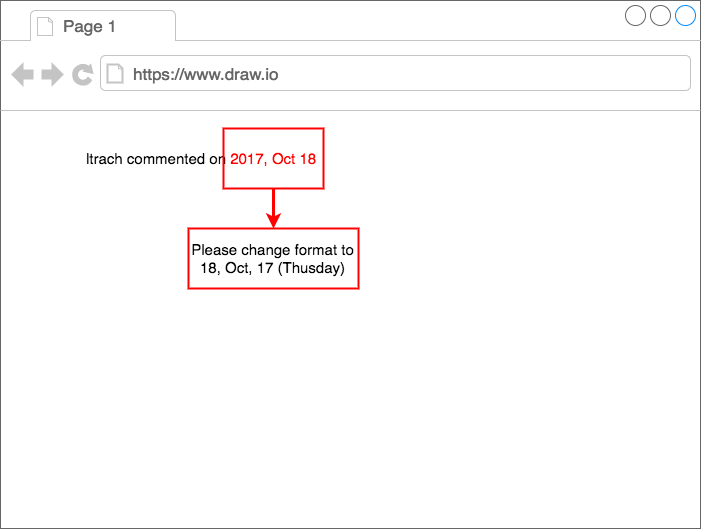
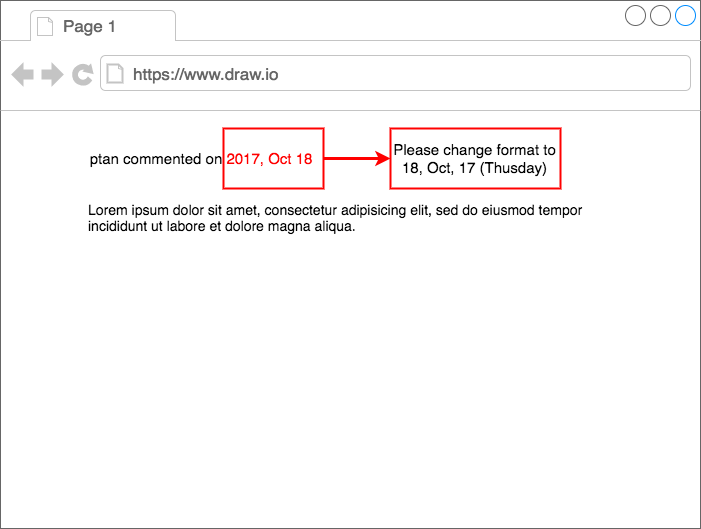
ibst (wip)

Changed region(s): [[0.1198, 0.3629, 0.8388, 0.5747], [0.1198, 0.242, 0.8088, 0.3629]]

diff --git a/_drafts/ibst-how-to-analyze-investigate-and-writing-test-case.md b/_drafts/ibst-how-to-analyze-investigate-and-writing-test-case.md
@@ -2,7 +2,7 @@
 layout: single
 title: 'Phân tích yêu cầu, điều tra và viết test-case'
 categories:
-    - improve-by-doing-simple-things
+  - improve-by-doing-simple-things
 ---
 
 # Phân tích yêu cầu
@@ -43,45 +43,3 @@ categories:
 
 - Đảm bảo tất cả các yêu cầu của khách hàng đã được thực hiện.
 - Đảm bảo những chức năng nằm ngoài phạm vi của yêu cầu không bị ảnh hưởng.
-
-# Case study
-
-## Yêu cầu
-
-Ta nhận được yêu cầu thay đổi mục comment như sau từ phía khách hàng
-
-![Mẫu yêu cầu](/assets/ibst-requirement-sample.png)
-
-## Phân tích
-
-Đây là một yêu cầu nhìn chung là đơn giản, tuy nhiên khi phân tích vào chi tiết ta sẽ thấy có nhiều điểm cần lưu ý. Ví dụ:
-
-- Date format thường được sử dung đồng nhất toàn dự án, nếu ta đổi date format ở màn hình này thì liệu ở những màn hình khác ta có cần làm điều tương tự hay không?
-- Format hiển thị ngày tháng đang có những pattern nào? Ví dụ:
-  - Ngày comment cùng năm với năm hiện tại
-  - Ngày comment nằm ở năm của quá khứ?
-  - 18, Oct, 17 có vẻ hơi rối, liệu ta có nên ghi rõ năm ra là 2017, giữa ngày và tháng không có dấu phẩy được hay không?
-  - Nếu ngày comment giá trị là rỗng hoặc null thì ta sẽ hiển thị gì?
-
-## Điều tra (tiến hành song song với bước phân tích)
-
-Sau khi tiến hành điều tra source code và trao đổi với khách hàng, ta đã có được câu trả lời như sau:
-
-- Việc thay đổi date format là một phần trong kế hoạch làm đồng nhất lại toàn bộ date format, nếu phát hiện ra chỗ nào chưa tuân theo format này thì ta sẽ sửa, nhưng cần xác nhận lại khách hàng trước khi làm.
-
-- Format hiển thị ngày có những pattern sau:
-  - Ngày comment cùng với năm hiện tại: sẽ không hiển thị năm
-  - Ngày comment nằm ở năm với quá khứ thì sẽ hiển thị năm, tuy nhiên nếu trước năm hiện tại 3 năm thì sẽ không hiển thị ngày, tháng, năm mà chỉ hiện: more than 3 years ago, more than 4 years ago,...
-  - Năm sẽ được hiển thị full chữ, bỏ dấu phẩy giữa ngày tháng
-  - Nếu ngày comment giá trị là rỗng hoặc null thì ta sẽ chỉ hiển thị "ltrach commented", bỏ chữ on.
-
-## Viết test-case
-
-Sau khi tiến hành phân tích thì yêu cầu ngắn ban đầu đã trở nên phức tạp hơn. Và nhờ việc phân tích chi tiết spec mà bây giờ ta đã có thể tiến hành viết test-case cover cho tất cả trường hợp:
-
-| Ngày comment | Hiển thị |
-|------| ------|
-| 18/10/2017 | ltrach commented on 18 Oct, 2017 (Thusday) |
-| 18/10/2018 | ltrach commented on 18 Oct (Thusday) |
-| 18/10/2015 | ltrach commented more than 3 years ago |
-| null | ltrach commented |

diff --git a/_drafts/ibst-how-to-analyze-investigate-and-writing-test-case-case-study.md b/_drafts/ibst-how-to-analyze-investigate-and-writing-test-case-case-study.md
@@ -1,0 +1,48 @@
+---
+layout: single
+title: 'Phân tích yêu cầu, điều tra và viết test-case: case study'
+categories:
+  - improve-by-doing-simple-things
+---
+
+# Case study
+
+## Yêu cầu
+
+Ta nhận được yêu cầu thay đổi mục comment như sau từ phía khách hàng
+
+![Mẫu yêu cầu](/assets/ibst-requirement-sample.png)
+
+## Phân tích
+
+Đây là một yêu cầu nhìn chung là đơn giản, tuy nhiên khi phân tích vào chi tiết ta sẽ thấy có nhiều điểm cần lưu ý. Ví dụ:
+
+- Date format thường được sử dung đồng nhất toàn dự án, nếu ta đổi date format ở màn hình này thì liệu ở những màn hình khác ta có cần làm điều tương tự hay không?
+- Format hiển thị ngày tháng đang có những pattern nào? Ví dụ:
+  - Ngày comment cùng năm với năm hiện tại
+  - Ngày comment nằm ở năm của quá khứ?
+  - 18, Oct, 17 có vẻ hơi rối, liệu ta có nên ghi rõ năm ra là 2017, giữa ngày và tháng không có dấu phẩy được hay không?
+  - Nếu ngày comment giá trị là rỗng hoặc null thì ta sẽ hiển thị gì?
+
+## Điều tra (tiến hành song song với bước phân tích)
+
+Sau khi tiến hành điều tra source code và trao đổi với khách hàng, ta đã có được câu trả lời như sau:
+
+- Việc thay đổi date format là một phần trong kế hoạch làm đồng nhất lại toàn bộ date format, nếu phát hiện ra chỗ nào chưa tuân theo format này thì ta sẽ sửa, nhưng cần xác nhận lại khách hàng trước khi làm.
+
+- Format hiển thị ngày có những pattern sau:
+  - Ngày comment cùng với năm hiện tại: sẽ không hiển thị năm
+  - Ngày comment nằm ở năm với quá khứ thì sẽ hiển thị năm, tuy nhiên nếu trước năm hiện tại 3 năm thì sẽ không hiển thị ngày, tháng, năm mà chỉ hiện: more than 3 years ago, more than 4 years ago,...
+  - Năm sẽ được hiển thị full chữ, bỏ dấu phẩy giữa ngày tháng
+  - Nếu ngày comment giá trị là rỗng hoặc null thì ta sẽ chỉ hiển thị "ltrach commented", bỏ chữ on.
+
+## Viết test-case
+
+Sau khi tiến hành phân tích thì yêu cầu ngắn ban đầu đã trở nên phức tạp hơn. Và nhờ việc phân tích chi tiết spec mà bây giờ ta đã có thể tiến hành viết test-case cover cho tất cả trường hợp:
+
+| Ngày comment | Hiển thị |
+|------| ------|
+| 18/10/2017 | ltrach commented on 18 Oct, 2017 (Thusday) |
+| 18/10/2018 | ltrach commented on 18 Oct (Thusday) |
+| 18/10/2015 | ltrach commented more than 3 years ago |
+| null | ltrach commented |

diff --git a/_drafts/ibst-naming-basic.md b/_drafts/ibst-naming-basic.md
@@ -2,13 +2,12 @@
 layout: single
 title: 'Naming: cơ bản'
 categories:
-    - improve-by-doing-simple-things
+  - improve-by-doing-simple-things
 ---
-
 
 # Tiếng Anh
 
-### Tìm chỗ sai trong những naming dưới
+## Tìm chỗ sai trong những naming dưới
 
 ```
 isEdit
@@ -38,7 +37,7 @@ Cô gái tức quá hỏi lại: “Anh dám nói tôi thế hả?”
 Chàng trai ngỡ ngàng một lúc và trả lời lại: “Ben anh vua mat dien gio moi co”.
 ```
 
-### Đáp án
+## Đáp án
 
 ```
 isEdit                  --> isEdited | isEditing | isEditable
@@ -91,10 +90,10 @@ topPageTb
 
 Tùy trường hợp mà các biến trên có thể được cho phép hoặc không. Cụ thể:
 
-
-`myDbConnection`
-
-`featureScreenVC`
+```
+myDbConnection
+featureScreenVC
+```
 
 - Nếu dự án đã có quy định trong từ điển chung của dự án (glossary) là
 
@@ -105,7 +104,9 @@ VC = ViewController
 
 Thì biến trên là ok.
 
-`topPageTb`
+```
+topPageTb
+```
 
 - Trong trường hợp này, Tb có thể mang rất nhiều nghĩa, ví dụ như: Table, Thumbnail, cho nên 99% là naming của biến trên sai. Cách sửa:
 

diff --git a/_drafts/ibst-introduction.md b/_drafts/ibst-introduction.md
@@ -2,7 +2,7 @@
 layout: single
 title: 'Improve by doing simple things: lời nói đầu'
 categories:
-    - improve-by-doing-simple-things
+  - improve-by-doing-simple-things
 ---
 
 Trong quá trình làm việc, ngoài việc học hỏi thêm những framework, ngôn ngữ, thư viện mới thì việc viết ra code dễ maintenance là việc rất quan trọng.

diff --git a/_drafts/ibst-what-is-good-code.md b/_drafts/ibst-what-is-good-code.md
@@ -2,10 +2,10 @@
 layout: single
 title: 'Thế nào là code tốt'
 categories:
-    - improve-by-doing-simple-things
+  - improve-by-doing-simple-things
 ---
 
-![](https://i.stack.imgur.com/eTZvW.jpg)
+![good-code-bad-code](https://i.stack.imgur.com/eTZvW.jpg)
 
 # Code tốt có những đặc điểm
 

diff --git a/_drafts/ibst-naming-introduction.md b/_drafts/ibst-naming-introduction.md
@@ -2,7 +2,7 @@
 layout: single
 title: 'Naming: lời nói đầu'
 categories:
-    - improve-by-doing-simple-things
+  - improve-by-doing-simple-things
 ---
 
 Đặt tên là tác vụ rất phổ biến trong công việc hàng ngày của chúng ta. Khi chúng ta:
